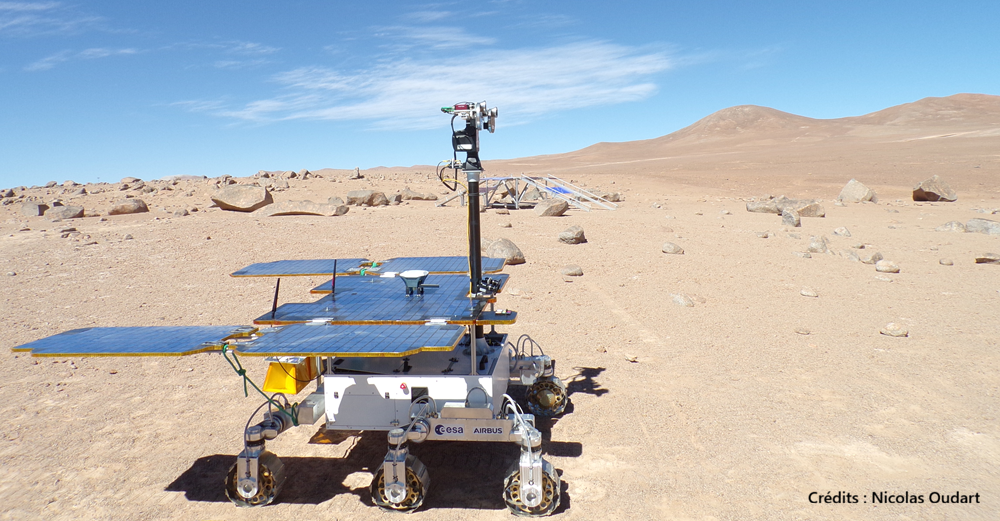
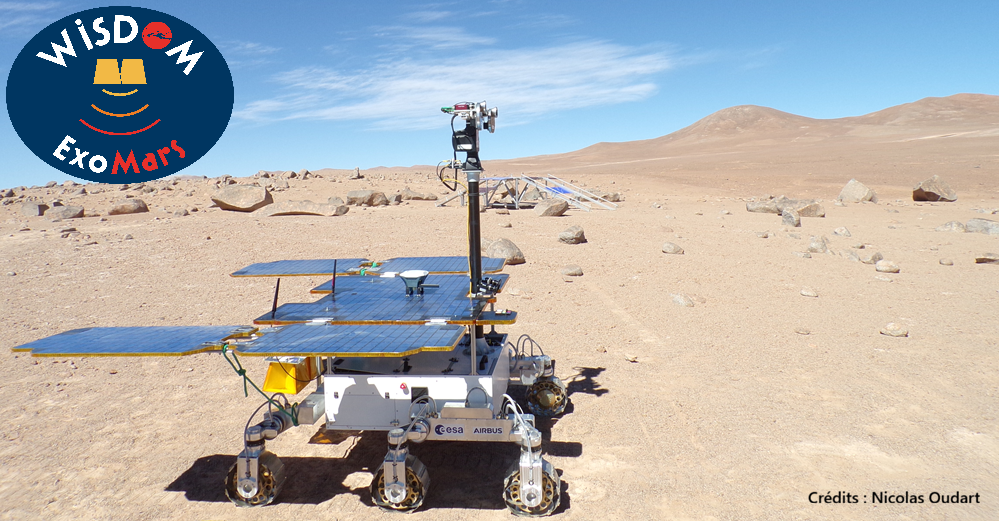
-Progress on WISDOM.

diff --git a/docs/TP_WISDOM.md b/docs/TP_WISDOM.md
@@ -33,6 +33,12 @@ Il donnera aussi un **contexte géophysique** aux échantillons récoltés.
 
 ## Importation des données
 
+### Exemple de données WISDOM
+
+![Illustration de la campagne au Svalbard de 2022](img/Svalbard_map_illustration.png)
+
+### Lecture du fichier
+
 ## Analyse spectrale
 
 ### FFT
